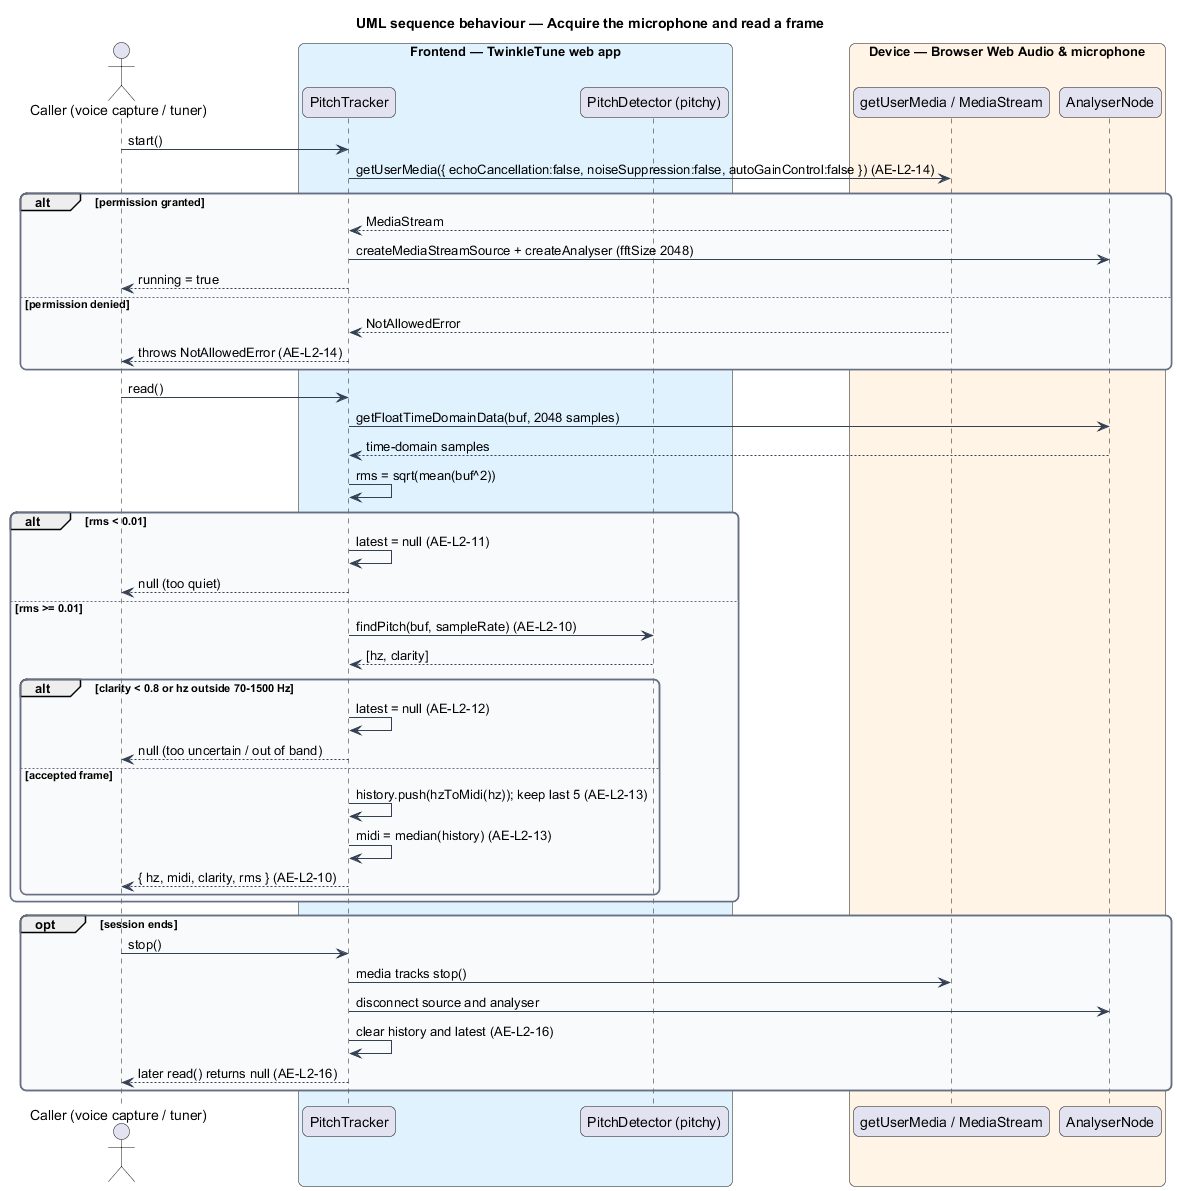
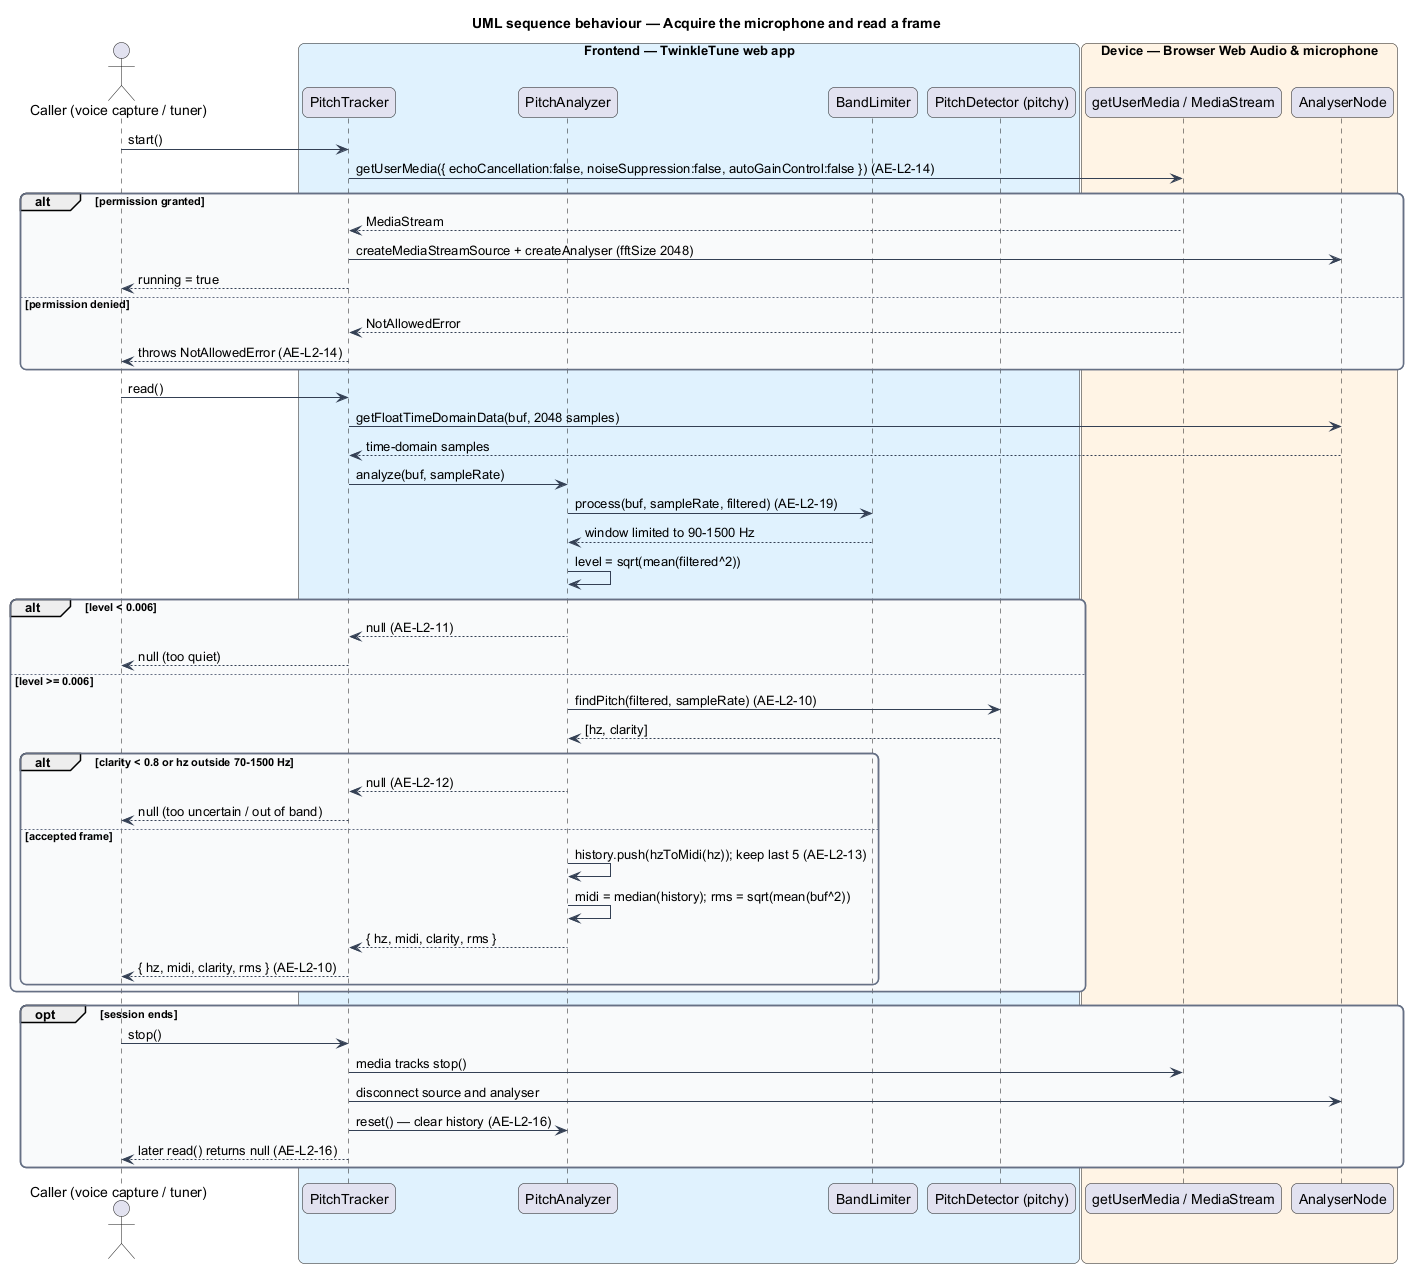
Specify band-limited pitch detection (AE-L2-19, AE-L2-20)
Requirement and design: limit each analysis window to the singing band
(90-1500 Hz, 4th-order Butterworth) before the level gate and the McLeod
estimate, move the gate inside the band at 0.006, and verify end to end
that a voice is still heard through breath, hiss, hum and low level.

diff --git a/docs/detailed-designs/audio-engine/detect-pitch/README.md b/docs/detailed-designs/audio-engine/detect-pitch/README.md
@@ -5,17 +5,18 @@
 TwinkleTune listens to a child sing and reports the pitch in real time, so
 gameplay and scoring can react to whether the note is high or low. Detection runs
 on the device from the microphone; no audio leaves the tablet. Homes are noisy
-and tablets are budget hardware, so the detector rejects sound that is too quiet
-or too uncertain to be a sung note, and it smooths brief octave jumps.
+and tablets are budget hardware, so the detector first narrows what it listens to
+down to the band a singing voice lives in, then rejects sound that is too quiet
+or too uncertain to be a sung note, and smooths brief octave jumps.
 
 audio engine — on-device layer that synthesises a song's melody and detects the
 singer's pitch
 
 This feature covers pitch input: acquiring the microphone, analysing one window
-of samples per frame, gating and smoothing the result, and releasing the
-microphone on stop. It reports raw pitch only; deciding whether the pitch is
-correct belongs to scoring, and finding a comfortable vocal range belongs to
-voice personalization. It runs offline on the device.
+of samples per frame, band-limiting, gating and smoothing the result, and
+releasing the microphone on stop. It reports raw pitch only; deciding whether the
+pitch is correct belongs to scoring, and finding a comfortable vocal range
+belongs to voice personalization. It runs offline on the device.
 
 The terms below are used throughout.
 
@@ -24,7 +25,15 @@ The terms below are used throughout.
 - McLeod pitch method — autocorrelation-based algorithm, supplied by the `pitchy`
   library, that estimates a fundamental frequency and a clarity from a window of
   samples
-- RMS — root-mean-square amplitude of a window, used as a loudness gate
+- singing band — 90 Hz to 1500 Hz, the range holding sung fundamentals and their
+  first harmonics
+- band limiting — filtering of a window down to the singing band before anything
+  else looks at it
+- Butterworth filter — filter with a maximally flat passband; a 4th-order one
+  falls away at 24 dB per octave beyond its cutoff
+- biquad — second-order filter section; two in cascade make a 4th-order filter
+- RMS — root-mean-square amplitude of a window
+- band-limited level — RMS of the band-limited window, used as the loudness gate
 - clarity — detector confidence in the range 0 to 1, used to reject uncertain
   detections
 - median filter — smoothing that reports the median of the most recent accepted
@@ -34,34 +43,78 @@ The terms below are used throughout.
 
 ## Description
 
-The feature is a frontend-only slice inside `frontend/src/audio/pitch.ts`, with
-one helper from `range.ts` and the `pitchy` library. No server participates.
+The feature is a frontend-only slice inside `frontend/src/audio/pitch.ts` and
+`frontend/src/audio/band-limit.ts`, with one helper from `range.ts` and the
+`pitchy` library. No server participates. The signal processing is separated
+from the Web Audio plumbing so it can be driven by synthesised audio in tests.
 
 - **`PitchTracker`** — class that owns the microphone and analysis graph.
-  `start()` acquires the stream and builds the analyser; `read()` produces one
-  frame; `stop()` releases everything. The `running` getter is true while an
-  analyser exists.
-- **`PitchFrame`** — result type with `hz`, `midi` (float, `60.0 = C4`),
-  `clarity` (0 to 1), and `rms`.
+  `start()` acquires the stream and builds the analyser; `read()` copies one
+  window out of the analyser and hands it to its `PitchAnalyzer`; `stop()`
+  releases everything. The `running` getter is true while an analyser exists.
 - **`start()`** — async method that calls `getUserMedia` with `echoCancellation`,
   `noiseSuppression`, and `autoGainControl` all `false`, builds a
   `MediaStreamAudioSourceNode` and an `AnalyserNode` with `fftSize = 2048`, and
   connects them. A denied permission surfaces as a `NotAllowedError` thrown to
   the caller.
-- **`read()`** — method that copies 2048 time-domain samples into `buf`, computes
-  `rms`, and returns `null` when `rms < MIN_RMS`. Otherwise it calls
-  `detector.findPitch(buf, sampleRate)` and returns `null` when
-  `clarity < MIN_CLARITY`, `hz < MIN_HZ`, or `hz > MAX_HZ`. On an accepted frame
-  it pushes `hzToMidi(hz)` into `history`, keeps the last `MEDIAN_WINDOW` values,
-  and reports the median as `midi`.
 - **`stop()`** — method that stops the media tracks, disconnects the source and
-  analyser, nulls the graph, and clears `history` and `latest`.
+  analyser, nulls the graph, and clears the analyzer's history and `latest`.
+- **`PitchAnalyzer`** — pure class turning one window into a `PitchFrame` or
+  `null`. `analyze(buf, sampleRate)` runs these steps in order:
+  1. band-limit `buf` into a scratch window with `BandLimiter.process`;
+  2. compute the band-limited level and return `null` when it is below
+     `MIN_BAND_RMS`;
+  3. call `detector.findPitch(filtered, sampleRate)` and return `null` when
+     `clarity < MIN_CLARITY`, `hz < MIN_HZ`, or `hz > MAX_HZ`;
+  4. push `hzToMidi(hz)` into `history`, keep the last `MEDIAN_WINDOW` values,
+     and report the median as `midi`, with `rms` computed from the unfiltered
+     `buf` so level displays keep their meaning.
+- **`BandLimiter(lowHz, highHz)`** — class in `band-limit.ts` holding a 4th-order
+  Butterworth high-pass at `lowHz` and a 4th-order Butterworth low-pass at
+  `highHz`, each as two cascaded biquads with section Qs 0.5412 and 1.3066.
+  `process(input, sampleRate, output)` derives the coefficients for the sample
+  rate (cached until the rate changes) and filters the window from rest. Starting
+  from rest costs a few milliseconds of settling at the head of a 43 ms window,
+  which the detector tolerates; it keeps windows independent, so overlapping
+  frames never share state.
+- **`PitchFrame`** — result type with `hz`, `midi` (float, `60.0 = C4`),
+  `clarity` (0 to 1), and `rms` (unfiltered level).
 - **`PitchDetector.forFloat32Array(FFT_SIZE)`** — `pitchy` detector configured
   for the 2048-sample window; `findPitch` returns `[hz, clarity]`.
 - **`hzToMidi(hz)`** — `range.ts` helper computing `69 + 12·log2(hz/440)`.
 
-Constants (the shipped baseline): `FFT_SIZE = 2048`, `MIN_RMS = 0.01`,
-`MIN_CLARITY = 0.8`, `MIN_HZ = 70`, `MAX_HZ = 1500`, `MEDIAN_WINDOW = 5`.
+Constants (the shipped baseline): `FFT_SIZE = 2048`, `BAND_LOW_HZ = 90`,
+`BAND_HIGH_HZ = 1500`, `MIN_BAND_RMS = 0.006`, `MIN_CLARITY = 0.8`,
+`MIN_HZ = 70`, `MAX_HZ = 1500`, `MEDIAN_WINDOW = 5`.
+
+### Why band-limit
+
+The McLeod method scores how periodic a window is, and broadband sound — breath,
+hiss, a fan — is not periodic. Once that sound approaches the level of the voice
+the clarity drops under the threshold and every frame is rejected: the detector
+does not degrade, it goes deaf. Hum and rumble below the voice do the same from
+the other side. Almost all of that energy lies outside 90–1500 Hz, while a sung
+fundamental and the harmonics that carry its periodicity lie inside, so removing
+the rest restores the detector's confidence without touching what it measures.
+
+The high-pass sits at 90 Hz although pitches down to 70 Hz are accepted: a voice
+that low is still tracked through its harmonics, and the higher cutoff takes
+10 dB more off 60 Hz mains hum. The level gate moves inside the band and down to
+0.006, because a voice loses little to the filter while white noise loses about
+12 dB; the gate is therefore both more sensitive to a quiet voice and harder for
+noise to open.
+
+Driving the reference singer of the scoring subsystem through the pipeline over
+all bundled songs (210 notes):
+
+| Condition | Unfiltered detector | Band-limited |
+|-----------|---------------------|--------------|
+| Reference room | 99.5% landed | 99.5% |
+| Breath noise louder than the voice's fundamental | 0% | 100% |
+| Broadband hiss as loud as the voice | 0% | 100% |
+| 60 Hz hum louder than the voice | 0% | 100% |
+| Very quiet voice | 91% | 99% |
+| Nobody singing, same hiss or hum | no pitch frames | no pitch frames |
 
 ## Requirements
 
@@ -70,12 +123,14 @@ refines a level-1 (L1) requirement, cited by identifier.
 
 | L2 ID | Refines (L1) | Requirement |
 |-------|--------------|-------------|
-| `AE-L2-10` | `AE-L1-4` | The engine shall analyse 2048-sample time-domain windows with the McLeod pitch method and, for an accepted frame, report `{ hz, midi, clarity, rms }` where `midi` is a float (`69 + 12·log2(hz/440)`). |
-| `AE-L2-11` | `AE-L1-5` | The engine shall reject (report no pitch for) any frame whose RMS level is below 0.01, so quiet background noise does not register as singing. |
+| `AE-L2-10` | `AE-L1-4` | The engine shall analyse 2048-sample time-domain windows, band-limited per `AE-L2-19`, with the McLeod pitch method and, for an accepted frame, report `{ hz, midi, clarity, rms }` where `midi` is a float (`69 + 12·log2(hz/440)`) and `rms` is the level of the unfiltered window. |
+| `AE-L2-11` | `AE-L1-5` | The engine shall reject (report no pitch for) any frame whose band-limited RMS level is below 0.006, so quiet background noise does not register as singing. |
 | `AE-L2-12` | `AE-L1-5` | The engine shall reject a frame whose detector clarity is below 0.8 or whose frequency falls outside 70–1500 Hz, so uncertain or out-of-band detections are discarded. |
 | `AE-L2-13` | `AE-L1-4, AE-L1-5` | The reported MIDI value shall be the median of the most recent 5 accepted frames, so a single octave-error blip cannot swing the reported pitch. |
 | `AE-L2-14` | `AE-L1-6` | The engine shall request the microphone with echo cancellation, noise suppression, and auto-gain **disabled** (to preserve pitch fidelity), and shall propagate a permission-denied error to the caller rather than swallowing it. |
 | `AE-L2-16` | `AE-L1-6` | Stopping the tracker shall stop the media tracks, disconnect the audio nodes, and clear the smoothing history and last frame, so no microphone remains active and no stale pitch survives into a later session. |
+| `AE-L2-19` | `AE-L1-5` | Before the level gate and the pitch estimate, each analysis window shall be band-limited to 90–1500 Hz by a 4th-order Butterworth high-pass at 90 Hz followed by a 4th-order Butterworth low-pass at 1500 Hz, computed for the context's sample rate. |
+| `AE-L2-20` | `AE-L1-4, AE-L1-5` | Taken end to end, the engine shall keep hearing an in-tune child through a breathy voice, broadband hiss, mains hum, or a quiet voice — at least 90% of notes landed in each case — and shall report no pitch at all when the same interference is present and nobody sings. |
 
 ## Diagrams
 
@@ -95,16 +150,18 @@ acquires the microphone and reads the analyser through the browser.
 
 ### Components
 
-Inside `pitch.ts`, `PitchTracker` reads the `AnalyserNode`, delegates the
-frequency estimate to the `pitchy` `PitchDetector`, and converts frequency to
-MIDI through `hzToMidi()`.
+Inside the pitch engine, `PitchTracker` reads the `AnalyserNode` and delegates
+each window to `PitchAnalyzer`, which band-limits it with `BandLimiter`, takes
+the frequency estimate from the `pitchy` `PitchDetector`, and converts frequency
+to MIDI through `hzToMidi()`.
 
 ![C4 component view for detecting pitch](diagrams/c4-component.png)
 
 ### Class structure
 
-`PitchTracker` produces a `PitchFrame`, depends on the `pitchy` `PitchDetector`
-for `findPitch`, and on `range.ts` for `hzToMidi`.
+`PitchTracker` owns a `PitchAnalyzer` and exposes the latest `PitchFrame`; the
+analyzer owns a `BandLimiter` and depends on the `pitchy` `PitchDetector` for
+`findPitch` and on `range.ts` for `hzToMidi`.
 
 ![Class diagram for detecting pitch](diagrams/class-structure.png)
 
@@ -112,9 +169,10 @@ for `findPitch`, and on `range.ts` for `hzToMidi`.
 
 `start()` requests the microphone with echo cancellation, noise suppression, and
 auto-gain off (`AE-L2-14`); the `alt` models the denied-permission path. `read()`
-then applies the RMS gate (`AE-L2-11`), the clarity and bounds gate (`AE-L2-12`),
-the McLeod estimate (`AE-L2-10`), and the median filter (`AE-L2-13`), with the
-too-quiet and too-uncertain rejections shown as `alt` branches and the teardown
-(`AE-L2-16`) as an `opt`.
+then band-limits the window (`AE-L2-19`) and applies the level gate
+(`AE-L2-11`), the McLeod estimate (`AE-L2-10`), the clarity and bounds gate
+(`AE-L2-12`), and the median filter (`AE-L2-13`), with the too-quiet and
+too-uncertain rejections shown as `alt` branches and the teardown (`AE-L2-16`) as
+an `opt`.
 
 ![Sequence diagram for acquiring the microphone and reading a frame](diagrams/sequence-acquire-mic-and-read-frame.png)

diff --git a/docs/specs/audio-engine/L2.md b/docs/specs/audio-engine/L2.md
@@ -162,10 +162,11 @@ baseline. Primary sources: `frontend/src/audio/player.ts`, `frontend/src/audio/p
 
 ### AE-L2-10 — Pitch detection pipeline
 - **Traces to:** AE-L1-4 · **Priority:** Must
-- **Source:** `pitch.ts` (`PitchDetector.forFloat32Array`, `FFT_SIZE = 2048`; `hzToMidi`)
-- **Requirement:** The engine shall analyse 2048‑sample time‑domain windows with the McLeod pitch
-  method and, for an accepted frame, report `{ hz, midi, clarity, rms }` where `midi` is a float
-  (`69 + 12·log2(hz/440)`).
+- **Revised:** v1.3 (the detector reads the band‑limited window, AE-L2-19)
+- **Source:** `pitch.ts` (`PitchAnalyzer.analyze`, `PitchDetector.forFloat32Array`, `FFT_SIZE = 2048`; `hzToMidi`)
+- **Requirement:** The engine shall analyse 2048‑sample time‑domain windows, band‑limited per AE-L2-19,
+  with the McLeod pitch method and, for an accepted frame, report `{ hz, midi, clarity, rms }` where
+  `midi` is a float (`69 + 12·log2(hz/440)`) and `rms` is the level of the unfiltered window.
 
 **Acceptance criteria**
 > **GIVEN** the tracker is running and a steady 440 Hz tone is present
@@ -176,14 +177,20 @@ baseline. Primary sources: `frontend/src/audio/player.ts`, `frontend/src/audio/p
 
 ### AE-L2-11 — RMS noise gate
 - **Traces to:** AE-L1-5 · **Priority:** Must
-- **Source:** `pitch.ts` (`MIN_RMS = 0.01`; returns `null` and clears `latest` below threshold)
-- **Requirement:** The engine shall reject (report no pitch for) any frame whose RMS level is below
-  0.01, so quiet background noise does not register as singing.
+- **Revised:** v1.3 (the gate measures the band‑limited level)
+- **Source:** `pitch.ts` (`MIN_BAND_RMS = 0.006`; returns `null` and clears `latest` below threshold)
+- **Requirement:** The engine shall reject (report no pitch for) any frame whose band‑limited RMS level
+  (AE-L2-19) is below 0.006, so quiet background noise does not register as singing. Measuring the
+  level inside the singing band lets the gate sit lower for a quiet voice while hum, rumble, and hiss
+  outside the band no longer open it.
 
 **Acceptance criteria**
-> **GIVEN** the tracker is running in a quiet room (RMS < 0.01)
+> **GIVEN** the tracker is running in a quiet room (band‑limited RMS < 0.006)
 > **WHEN** a frame is read
 > **THEN** the frame is `null` and no pitch is reported.
+
+> **GIVEN** a loud 60 Hz hum (amplitude 0.1) and nobody singing
+> **THEN** the frame is `null`: the hum lies outside the band and does not open the gate.
 
 ---
 
@@ -312,6 +319,57 @@ baseline. Primary sources: `frontend/src/audio/player.ts`, `frontend/src/audio/p
 
 ---
 
+### AE-L2-19 — Band‑limited detector input
+- **Traces to:** AE-L1-5 · **Priority:** Must
+- **Source:** `audio/band-limit.ts` (`BandLimiter`, 4th‑order Butterworth high‑pass and low‑pass as cascaded biquads); `pitch.ts` (`BAND_LOW_HZ = 90`, `BAND_HIGH_HZ = 1500`)
+- **Requirement:** Before the level gate and the pitch estimate, each analysis window shall be
+  band‑limited to 90–1500 Hz by a 4th‑order Butterworth high‑pass at 90 Hz followed by a 4th‑order
+  Butterworth low‑pass at 1500 Hz, computed for the context's sample rate. Sung fundamentals and their
+  first harmonics lie inside that band; mains hum, handling rumble, breath, and hiss lie mostly outside
+  it, so removing them keeps the detector confident about a voice it would otherwise lose in the noise.
+
+**Acceptance criteria**
+> **GIVEN** a steady 440 Hz tone
+> **WHEN** a window is band‑limited
+> **THEN** its level changes by less than 0.5 dB.
+
+> **GIVEN** a steady 60 Hz hum
+> **THEN** its level is reduced by at least 12 dB.
+
+> **GIVEN** a steady 6 kHz tone
+> **THEN** its level is reduced by at least 40 dB.
+
+> **GIVEN** the same window band‑limited at 44.1 kHz and at 48 kHz
+> **THEN** the three outcomes above hold at both sample rates.
+
+---
+
+### AE-L2-20 — Detection holds up in a noisy home
+- **Traces to:** AE-L1-4, AE-L1-5 · **Priority:** Must
+- **Source:** `frontend/src/testing/singing-acceptance.test.ts` (reference singer of SR-L2-18 through `PitchAnalyzer`, `NoteJudge`, and `noteLanded`)
+- **Requirement:** Taken end to end, the engine shall keep hearing an in‑tune child through the
+  ordinary interference of a home — a breathy voice, broadband hiss, mains hum, a quiet voice — and
+  shall report no pitch at all when the same interference is present and nobody sings.
+
+**Acceptance criteria**
+> **GIVEN** the reference singer sings every bundled song with breath noise louder than her voice's fundamental (amplitude 0.1 against 0.08)
+> **WHEN** the performances are judged
+> **THEN** at least 90% of notes are landed.
+
+> **GIVEN** she sings over broadband hiss of the same amplitude as her voice (0.08)
+> **THEN** at least 90% of notes are landed.
+
+> **GIVEN** she sings over a 60 Hz hum louder than her voice (amplitude 0.1)
+> **THEN** at least 90% of notes are landed.
+
+> **GIVEN** she sings very quietly (amplitude 0.012) in the reference room
+> **THEN** at least 90% of notes are landed.
+
+> **GIVEN** nobody sings while the hiss (0.08) or the hum (0.1) is present
+> **THEN** no pitch frame is reported and no note is landed.
+
+---
+
 ## 3. Traceability matrix
 
 | L2 | Traces to L1 |
@@ -334,3 +392,5 @@ baseline. Primary sources: `frontend/src/audio/player.ts`, `frontend/src/audio/p
 | AE-L2-16 | AE-L1-6 |
 | AE-L2-17 | AE-L1-7 |
 | AE-L2-18 | AE-L1-3, AE-L1-4 |
+| AE-L2-19 | AE-L1-5 |
+| AE-L2-20 | AE-L1-4, AE-L1-5 |

diff --git a/docs/specs/README.md b/docs/specs/README.md
@@ -180,3 +180,4 @@ The product is decomposed into thirteen subsystems. Each has its own `L1.md` and
 | 1.0 | 2026-07-18 | Requirements reverse‑engineered from the v1 implementation | Initial baseline covering all thirteen subsystems. |
 | 1.1 | 2026-11-09 | Voice‑comprehension improvements | Landed notes judged on sung frames with a timing tolerance (SR-L2-2, SR-L2-18, SG-L2-9, SG-L2-10, SG-L2-25). |
 | 1.2 | 2026-11-09 | Voice‑comprehension improvements | Automatic pipeline latency compensation (AE-L2-18, SG-L2-19, GC-L2-4). |
+| 1.3 | 2026-11-09 | Voice‑comprehension improvements | Band‑limited pitch detection and in‑band level gate (AE-L2-10, AE-L2-11, AE-L2-19, AE-L2-20). |

diff --git a/docs/specs/audio-engine/L1.md b/docs/specs/audio-engine/L1.md
@@ -72,7 +72,7 @@ between playback and analysis and must be resumed from a user gesture to satisfy
 | AE-L1-1 | AE-L2-1, AE-L2-9 |
 | AE-L1-2 | AE-L2-2, AE-L2-3, AE-L2-4, AE-L2-5 |
 | AE-L1-3 | AE-L2-6, AE-L2-7, AE-L2-18 |
-| AE-L1-4 | AE-L2-10, AE-L2-13, AE-L2-18 |
-| AE-L1-5 | AE-L2-11, AE-L2-12, AE-L2-13 |
+| AE-L1-4 | AE-L2-10, AE-L2-13, AE-L2-18, AE-L2-20 |
+| AE-L1-5 | AE-L2-11, AE-L2-12, AE-L2-13, AE-L2-19, AE-L2-20 |
 | AE-L1-6 | AE-L2-8, AE-L2-14, AE-L2-15, AE-L2-16 |
 | AE-L1-7 | AE-L2-17 |
